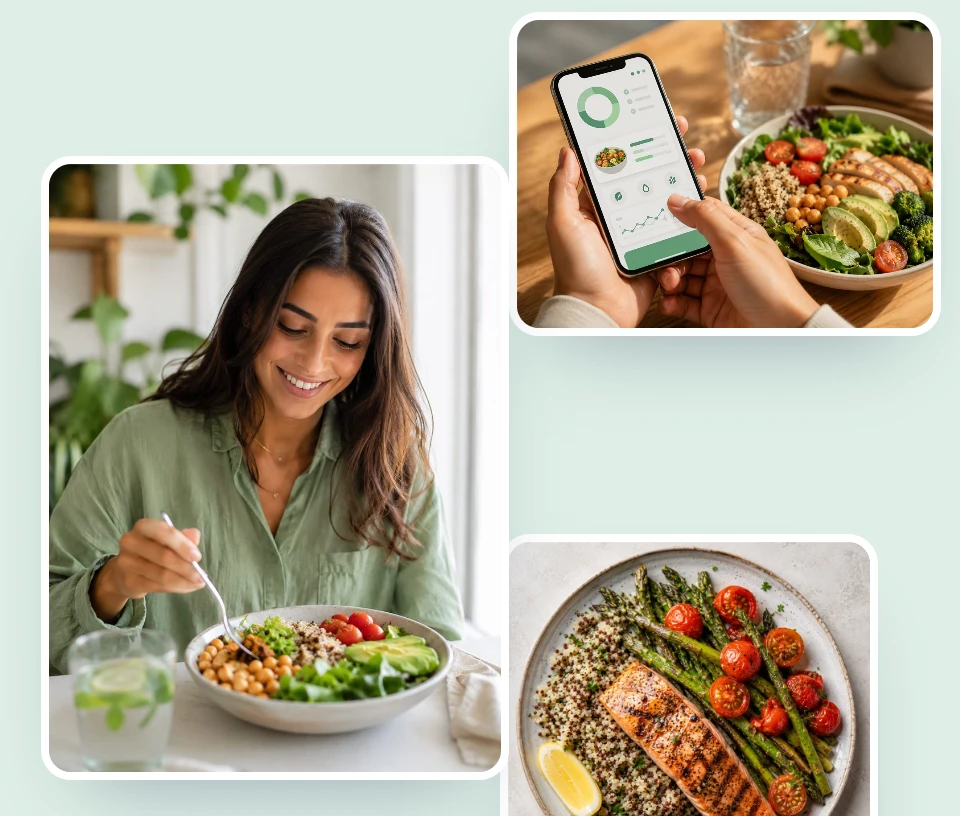
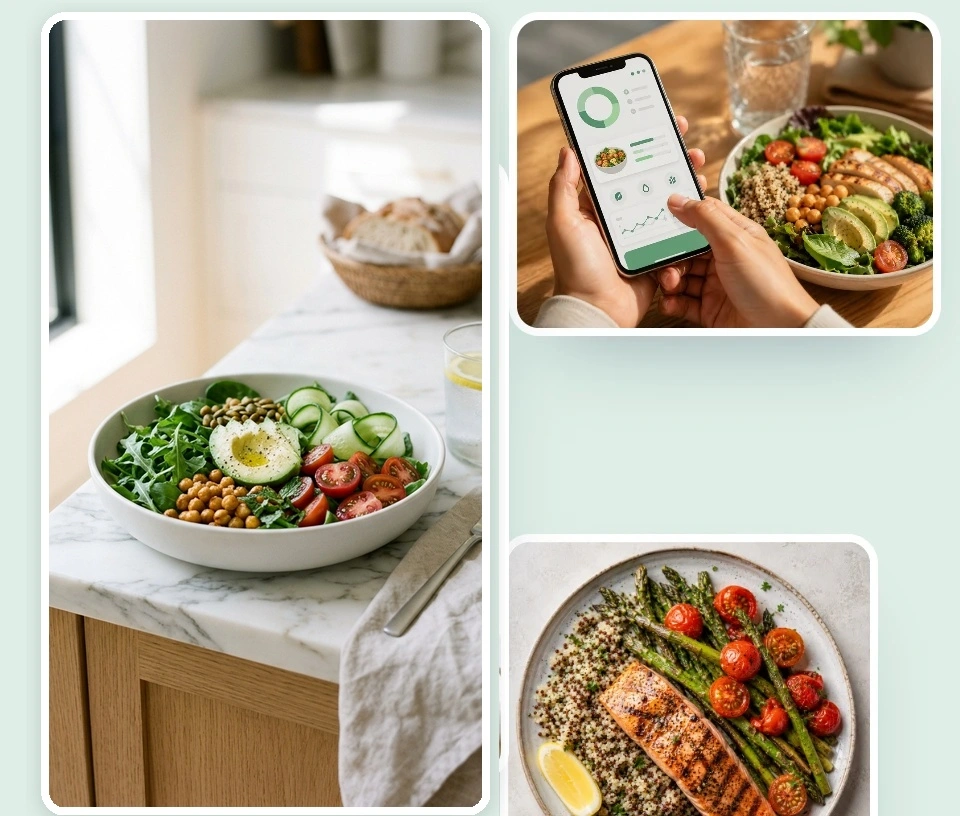
fix: remove woman photo from testimonials collage and update with gourmet wellness salad collage

diff --git a/index.html b/index.html
@@ -1430,7 +1430,7 @@
         <!-- Collage Image Column -->
         <div class="lg:col-span-5 flex justify-center">
           <div class="rounded-3xl overflow-hidden border-2 border-white shadow-2xl bg-white p-2">
-            <img loading="lazy" decoding="async" src="assets/testimonials_collage.webp" alt="تجارب المشتركين ووجباتهم" class="w-full h-full object-cover rounded-2xl">
+            <img loading="lazy" decoding="async" src="assets/testimonials_collage.webp?v=2" alt="تجارب المشتركين ووجباتهم" class="w-full h-full object-cover rounded-2xl">
           </div>
         </div>
 

diff --git a/wahet-nour.html b/wahet-nour.html
@@ -1538,7 +1538,7 @@
         <!-- Collage Image -->
         <div class="lg:col-span-5 flex justify-center">
           <div class="rounded-3xl overflow-hidden border-2 border-white/10 shadow-2xl bg-[#0B1E33] p-2">
-            <img loading="lazy" src="assets/testimonials_collage.webp" alt="تجارب المشتركين ووجباتهم" class="w-full h-full object-cover rounded-2xl">
+            <img loading="lazy" src="assets/testimonials_collage.webp?v=2" alt="تجارب المشتركين ووجباتهم" class="w-full h-full object-cover rounded-2xl">
           </div>
         </div>
 

diff --git a/wahetnor.html b/wahetnor.html
@@ -1334,7 +1334,7 @@
         <!-- Collage Image -->
         <div class="lg:col-span-5 flex justify-center">
           <div class="rounded-3xl overflow-hidden border-2 border-white/10 shadow-2xl bg-[#0B1E33] p-2">
-            <img loading="lazy" src="assets/testimonials_collage.webp" alt="تجارب المشتركين ووجباتهم" class="w-full h-full object-cover rounded-2xl">
+            <img loading="lazy" src="assets/testimonials_collage.webp?v=2" alt="تجارب المشتركين ووجباتهم" class="w-full h-full object-cover rounded-2xl">
           </div>
         </div>
 
